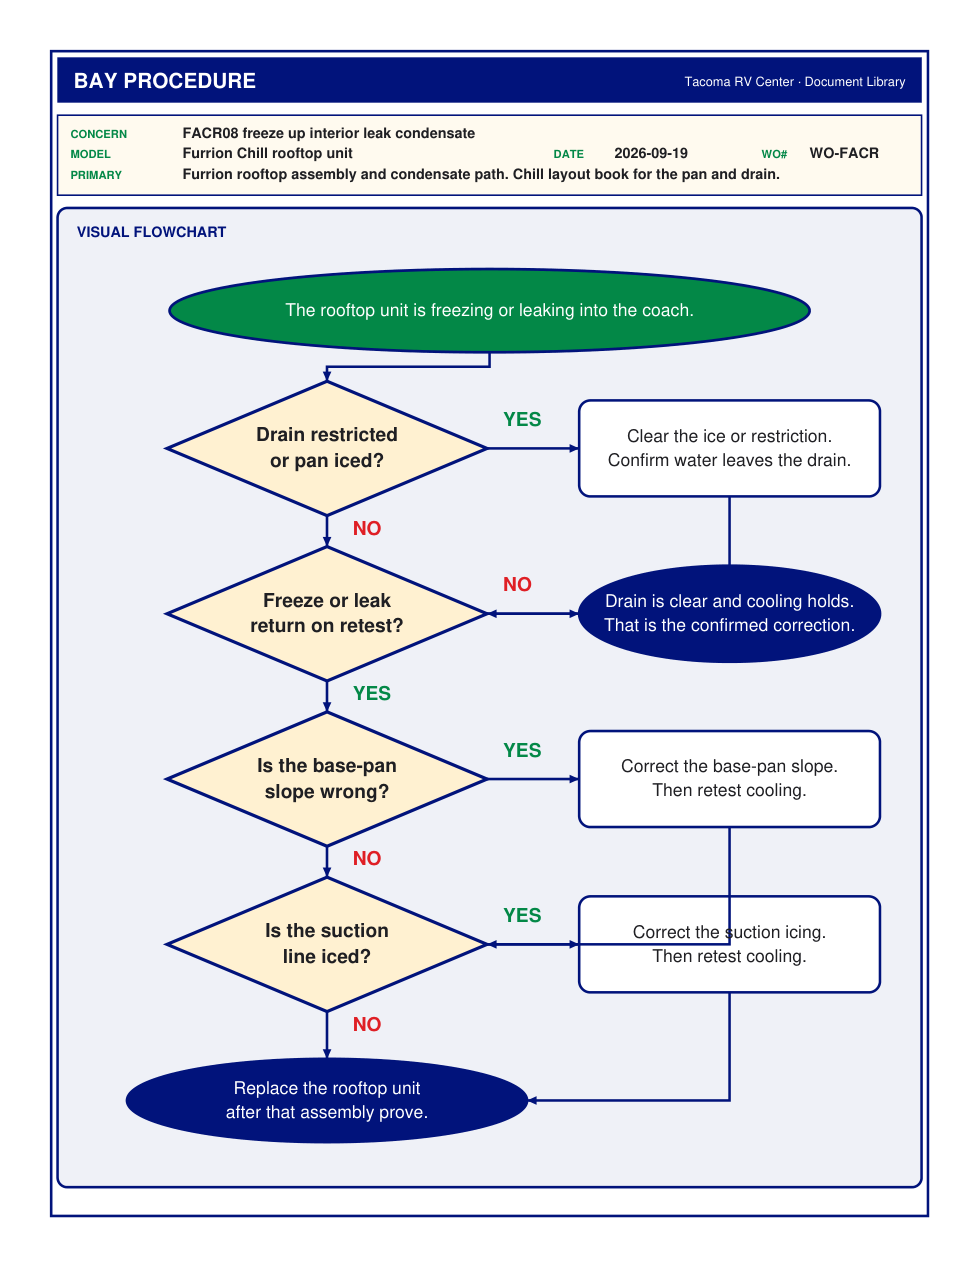
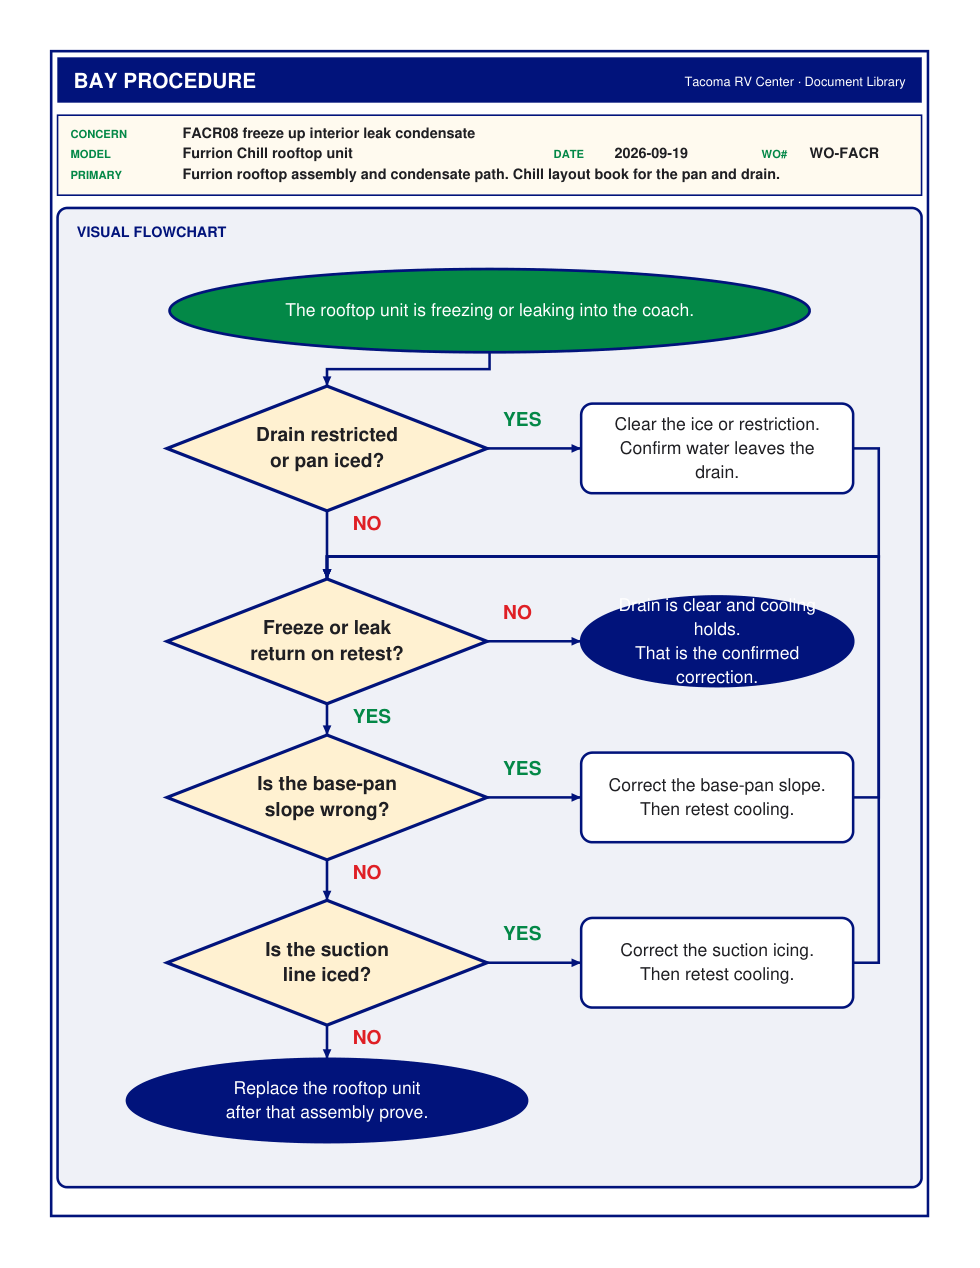
Send FACR slope and suction fixes back to retest
Drain, slope, and suction action boxes now return to the retest diamond.
Replace the rooftop only when freeze or leak still returns after that
assembly prove. FCR and Firefly charts are unchanged.

diff --git a/bay_procedure.py b/bay_procedure.py
@@ -625,70 +625,70 @@ def _facr_path() -> dict:
                     0.30,
                     0.22,
                     w=200,
-                    h=84,
+                    h=78,
                 ),
                 FlowNode(
                     "p_clear",
                     "process",
                     "Clear the ice or restriction.\nConfirm water leaves the drain.",
-                    0.82,
+                    0.78,
                     0.22,
-                    w=188,
-                    h=60,
+                    w=170,
+                    h=56,
                 ),
                 FlowNode(
                     "d_retest",
                     "decision",
                     "Freeze or leak\nreturn on retest?",
                     0.30,
-                    0.40,
+                    0.43,
                     w=200,
-                    h=84,
+                    h=78,
                 ),
                 FlowNode(
                     "e_ok",
                     "end",
                     "Drain is clear and cooling holds.\nThat is the confirmed correction.",
-                    0.82,
-                    0.40,
-                    w=188,
-                    h=60,
+                    0.78,
+                    0.43,
+                    w=170,
+                    h=56,
                 ),
                 FlowNode(
                     "d_slope",
                     "decision",
                     "Is the base-pan\nslope wrong?",
                     0.30,
-                    0.58,
+                    0.60,
                     w=200,
-                    h=84,
+                    h=78,
                 ),
                 FlowNode(
                     "p_slope",
                     "process",
                     "Correct the base-pan slope.\nThen retest cooling.",
-                    0.82,
-                    0.58,
-                    w=188,
-                    h=60,
+                    0.78,
+                    0.60,
+                    w=170,
+                    h=56,
                 ),
                 FlowNode(
                     "d_suc",
                     "decision",
                     "Is the suction\nline iced?",
                     0.30,
-                    0.76,
+                    0.78,
                     w=200,
-                    h=84,
+                    h=78,
                 ),
                 FlowNode(
                     "p_suc",
                     "process",
                     "Correct the suction icing.\nThen retest cooling.",
-                    0.82,
-                    0.76,
-                    w=188,
-                    h=60,
+                    0.78,
+                    0.78,
+                    w=170,
+                    h=56,
                 ),
                 FlowNode(
                     "e_rep",
@@ -704,15 +704,15 @@ def _facr_path() -> dict:
                 FlowEdge("s", "d_drain"),
                 FlowEdge("d_drain", "p_clear", "YES", "right", "left"),
                 FlowEdge("d_drain", "d_retest", "NO", "bottom", "top"),
-                FlowEdge("p_clear", "d_retest", "", "bottom", "right"),
+                FlowEdge("p_clear", "d_retest", "", "right", "top"),
                 FlowEdge("d_retest", "e_ok", "NO", "right", "left"),
                 FlowEdge("d_retest", "d_slope", "YES", "bottom", "top"),
                 FlowEdge("d_slope", "p_slope", "YES", "right", "left"),
                 FlowEdge("d_slope", "d_suc", "NO", "bottom", "top"),
-                FlowEdge("p_slope", "d_suc", "", "bottom", "right"),
+                FlowEdge("p_slope", "d_retest", "", "right", "top"),
                 FlowEdge("d_suc", "p_suc", "YES", "right", "left"),
                 FlowEdge("d_suc", "e_rep", "NO", "bottom", "top"),
-                FlowEdge("p_suc", "e_rep", "", "bottom", "right"),
+                FlowEdge("p_suc", "d_retest", "", "right", "top"),
             ],
         ),
         "bay_order": [
@@ -1775,10 +1775,10 @@ def _route_elbow(x1: float, y1: float, x2: float, y2: float, from_side: str, to_
             mid_x = (x1 + x2) / 2.0
             pts.extend([(mid_x, y1), (mid_x, y2), (x2, y2)])
     elif from_side == "right" and to_side == "top":
-        out_x = x1 + 48.0
+        out_x = x1 + 16.0
         if out_x < x2:
             out_x = (x1 + x2) / 2.0
-        mid_y = y2 + 16.0
+        mid_y = y2 + 14.0
         pts.extend([(out_x, y1), (out_x, mid_y), (x2, mid_y), (x2, y2)])
     elif from_side == "left" and to_side == "top":
         out_x = x1 - 36.0

diff --git a/tests/test_bay_procedure_pdf.py b/tests/test_bay_procedure_pdf.py
@@ -271,6 +271,15 @@ class TestManualModeFireflyCan(unittest.TestCase):
             if "slope" in n.text.lower() and "suction" in n.text.lower()
         ]
         self.assertEqual(mashed, [])
+        dest = {(e.from_id, e.label.upper()): e.to_id for e in proc.flowchart.edges}
+        self.assertEqual(dest[("p_clear", "")], "d_retest")
+        self.assertEqual(dest[("p_slope", "")], "d_retest")
+        self.assertEqual(dest[("p_suc", "")], "d_retest")
+        self.assertEqual(dest[("d_retest", "NO")], "e_ok")
+        self.assertEqual(dest[("d_retest", "YES")], "d_slope")
+        self.assertEqual(dest[("d_suc", "NO")], "e_rep")
+        into_replace = [e.from_id for e in proc.flowchart.edges if e.to_id == "e_rep"]
+        self.assertEqual(into_replace, ["d_suc"])
         order = " ".join(proc.bay_order).lower()
         self.assertIn("if the drain is restricted", order)
         self.assertIn("base-pan", order)
